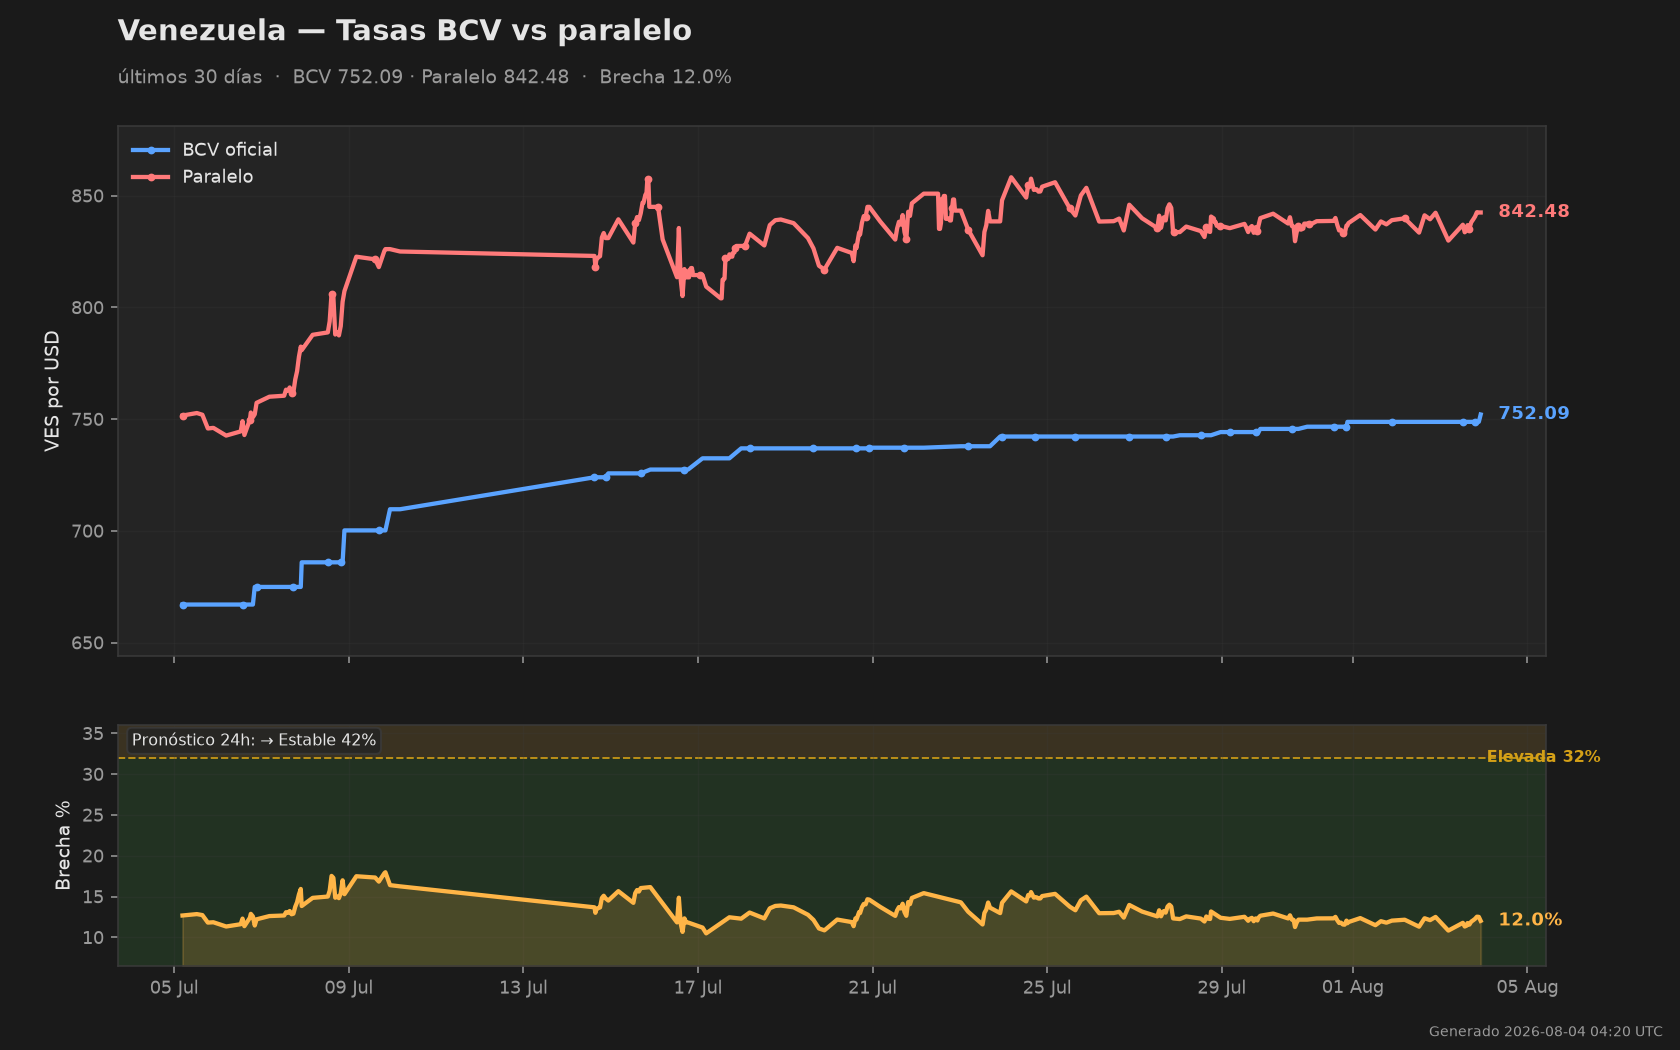
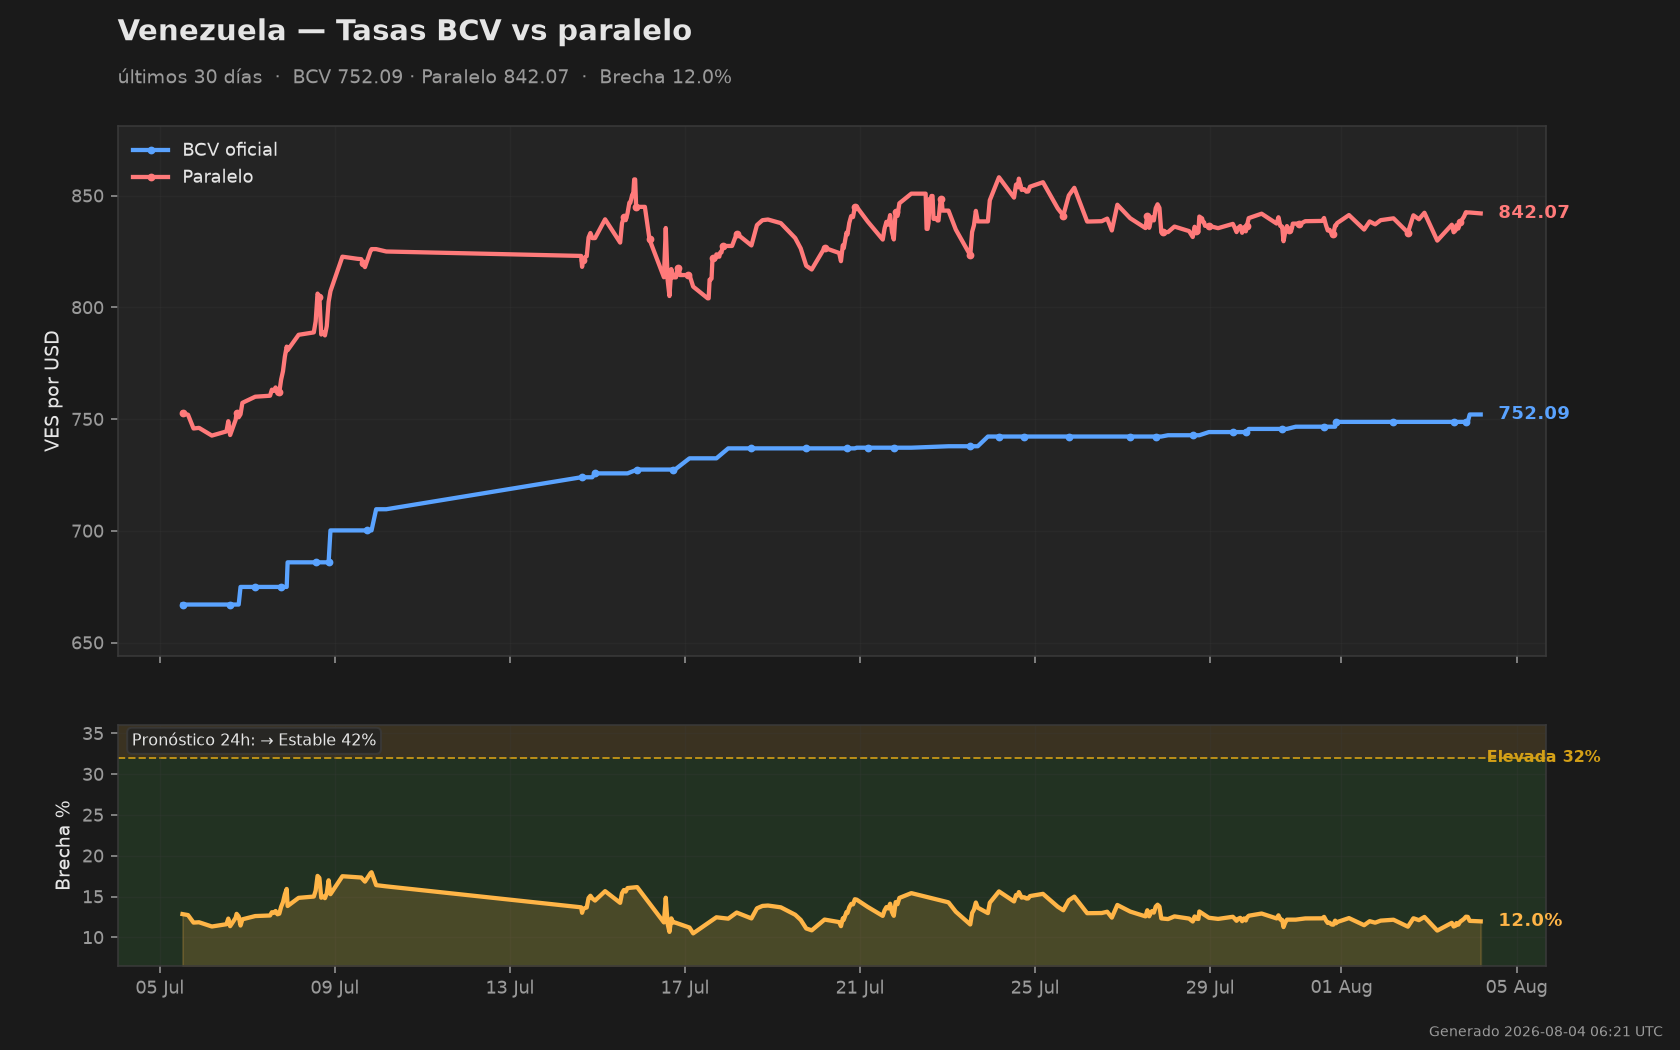
Dashboard update 2026-08-04 06:21 UTC

diff --git a/README.md b/README.md
@@ -11,11 +11,11 @@
 | Metric · Métrica | Value · Valor |
 |---|---|
 | BCV Oficial | **752.09** VES/USD |
-| Paralelo | **842.48** VES/USD |
+| Paralelo | **842.07** VES/USD |
 | Brecha · Spread | **12.0%** |
-| Binance P2P USDT/VES | **847.00** VES/USDT (+0.5% vs paralelo) |
+| Binance P2P USDT/VES | **847.27** VES/USDT (+0.6% vs paralelo) |
 | **Pronóstico 24h · 24h Forecast** | **→ Estable · Stable (53%)** |
-| Actualizado · Updated | 2026-08-03 22:18 UTC |
+| Actualizado · Updated | 2026-08-04 04:20 UTC |
 
 ![Venezuela BCV vs parallel rate — last 30 days](data/chart.png)
 
